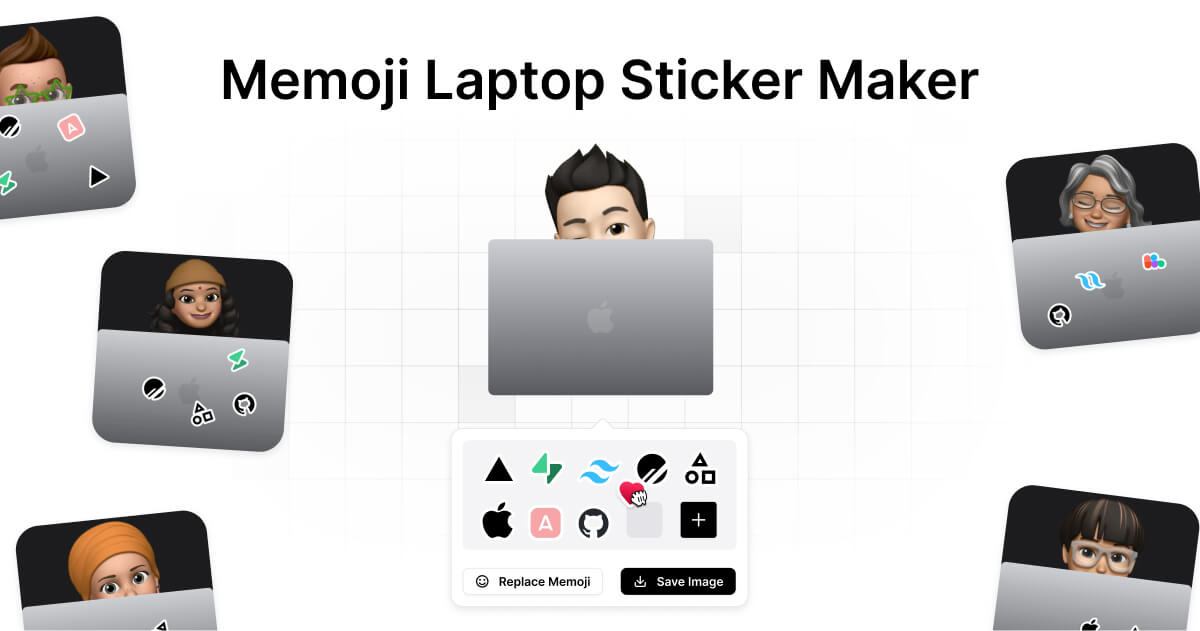
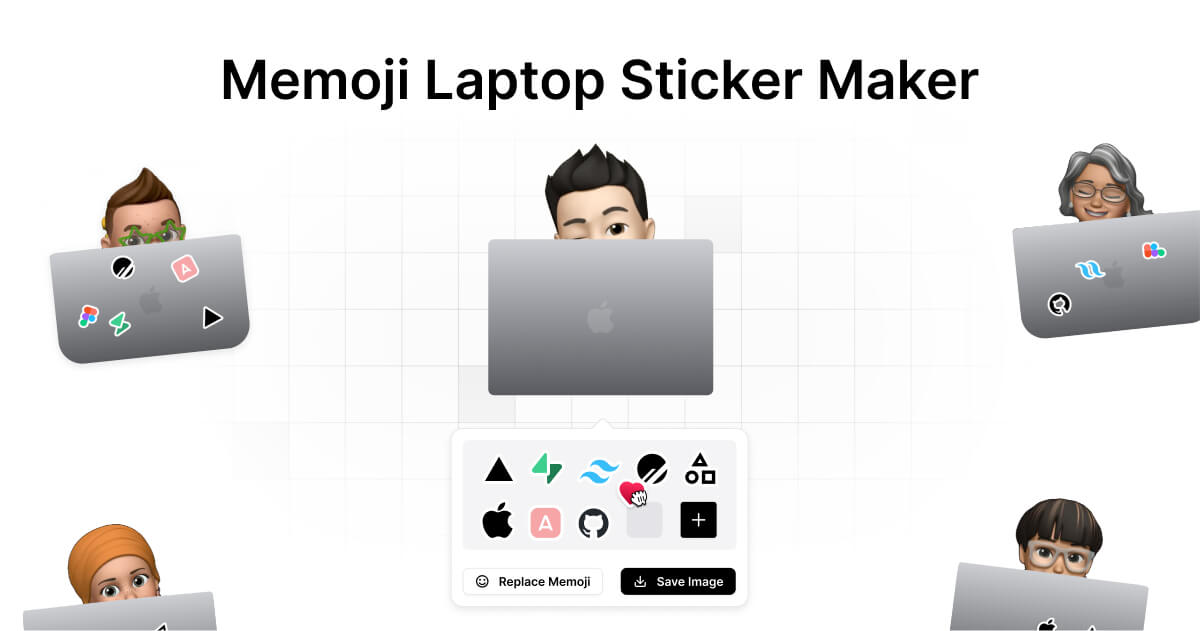
feat: newsletter

diff --git a/components/NewsletterSubscribe.tsx b/components/NewsletterSubscribe.tsx
@@ -1,0 +1,90 @@
+"use client"
+
+import { useState } from "react"
+import Dialog, { hideDialog } from "./Dialog"
+import { Mail } from "./Icons"
+import { showNotification } from "./Notification"
+
+export default function NewsletterSubscribe(props: {
+  subscribe: (email: string) => Promise<number>
+}) {
+  const [loading, setLoading] = useState(false)
+  const [email, setEmail] = useState("")
+  const [hide, setHide] = useState(false)
+
+  return (
+    <Dialog timeout={1500} hide={hide}>
+      <h2 className="font-semibold text-lg mb-4">
+        Hi, I&apos;m Flo. I&apos;ve built this tool…
+      </h2>
+      <p className="mb-4 text-zinc-500">
+        because I love stickers and I love Memoji. As you can see, this is just
+        a small side project I did in 48 hours.
+      </p>
+      <p className="mb-6 text-zinc-500">
+        As I&apos;m planning to build more products, that are not only a side
+        project and fun, but also super useful, I would love to inform you about
+        them first. Feel free to subscribe to my personal waitlist. I will never
+        spam you and only inform you about new products as soon as they come
+        out. :)
+      </p>
+      <svg
+        width="96"
+        className="mb-8"
+        height="100%"
+        viewBox="0 0 123 75"
+        fill="none"
+        xmlns="http://www.w3.org/2000/svg"
+      >
+        <path
+          fill-rule="evenodd"
+          clip-rule="evenodd"
+          d="M37.7585 5.09938L37.7554 5.11918C36.7844 11.2539 33.851 17.2225 31.2081 22.5999C30.8174 23.3947 30.4331 24.1766 30.0625 24.9442C26.5815 32.153 22.872 39.2408 19.0122 46.2406C23.0778 42.5467 27.3044 39.0513 31.5001 35.5815C32.4608 34.787 33.4199 33.9938 34.3751 33.1999C34.4805 33.1122 34.6746 32.9211 34.96 32.6355L34.9999 32.5956C35.2413 32.354 35.5355 32.0595 35.7808 31.8436C35.8945 31.7435 36.0851 31.581 36.2977 31.4599L36.2993 31.459C36.3754 31.4156 36.6562 31.2556 37.0389 31.2337C37.2636 31.2209 37.6116 31.2514 37.9583 31.4726C38.3195 31.7032 38.5094 32.0319 38.5959 32.3028C38.7338 32.7349 38.6426 33.1103 38.6197 33.2046L38.6187 33.2086C38.5814 33.3628 38.5281 33.5027 38.4831 33.6099C38.3909 33.8297 38.2582 34.0881 38.0977 34.3769C35.7624 38.5806 33.6833 43.0985 32.1156 47.6193C31.3886 49.7156 30.7448 51.8848 30.558 53.9392C30.5471 54.0592 30.5353 54.1775 30.5236 54.2952C30.4925 54.6083 30.4618 54.9171 30.4488 55.2416C30.4373 55.5315 30.446 55.7433 30.4623 55.8865C30.5413 55.9105 30.6545 55.9366 30.8077 55.9574C31.3347 56.0288 31.9485 55.9914 32.3723 55.9603C35.0116 55.7666 37.4729 54.3849 39.8945 52.6892C40.7814 51.6589 41.7351 50.6868 42.7168 49.7618C43.1972 49.0683 43.6958 48.4233 44.1589 47.8291C46.3528 45.0147 48.9531 42.4602 51.8315 40.335C53.2535 39.2851 55.052 38.037 57.1905 37.6231C57.2959 37.6027 57.5053 37.566 57.7428 37.5834C57.8577 37.5919 58.1042 37.6202 58.3732 37.7626C58.69 37.9302 59.0366 38.2632 59.1517 38.7821C59.2505 39.227 59.125 39.581 59.0565 39.7369C58.9814 39.9082 58.8907 40.0318 58.8392 40.0971C58.7346 40.2297 58.6245 40.3293 58.5672 40.3796C58.4466 40.4854 58.3078 40.5881 58.2318 40.6444L58.2245 40.6498C58.165 40.6938 58.1368 40.7153 58.1277 40.7219C57.583 41.2317 57.0377 41.7464 56.4912 42.2642C56.5568 42.3119 56.6192 42.36 56.6785 42.4076C56.8557 42.5502 57.032 42.7123 57.1636 42.8333C57.1921 42.8596 57.2185 42.8839 57.2424 42.9057C57.3986 43.0479 57.5081 43.1408 57.6115 43.2121C57.6417 43.2329 57.673 43.2545 57.7053 43.2767C58.1398 43.5756 58.7539 43.9982 59.3003 44.4936C59.8684 45.0086 60.5477 45.7615 60.8141 46.7472C61.1452 47.9724 60.8794 49.1216 60.4374 50.0459C59.9995 50.9615 59.3517 51.7418 58.7506 52.3318C56.4172 54.6224 53.325 56.3668 50.0733 57.2996C55.8764 57.6606 61.7461 57.6216 67.6327 57.5825C69.6544 57.5691 71.6782 57.5557 73.7019 57.5585C76.9782 57.5629 80.2762 57.5325 83.5863 57.502C92.2423 57.4222 100.982 57.3416 109.639 57.8818C113.097 58.0976 116.692 58.3946 120.173 58.9211C120.586 58.9836 120.942 59.0459 121.196 59.1188C121.266 59.1389 121.36 59.1685 121.46 59.2115C121.535 59.2434 121.74 59.334 121.94 59.52C122.154 59.718 122.588 60.2677 122.377 61.0401C122.217 61.6281 121.776 61.8966 121.688 61.9505L121.687 61.9507C121.449 62.0958 121.202 62.1556 121.134 62.172L121.126 62.1738C121.015 62.201 120.897 62.2232 120.798 62.2407C120.707 62.2569 120.607 62.2735 120.511 62.2892L120.477 62.2949C120.367 62.3131 120.258 62.3312 120.148 62.3508C112.286 63.7578 104.12 63.8127 96.2146 63.8658C94.109 63.8799 92.0218 63.8939 89.9636 63.9334C75.6918 64.2066 61.4232 64.6028 47.1842 65.3627C42.3689 65.6197 37.8758 66.6328 33.1075 67.7078C32.363 67.8757 31.6118 68.0451 30.8516 68.2133C30.2465 68.3472 29.6324 68.4876 29.0104 68.6298C25.3528 69.466 21.4265 70.3636 17.4967 70.3636C16.6683 70.3636 15.9967 69.692 15.9967 68.8636C15.9967 68.0351 16.6683 67.3636 17.4967 67.3636C21.0588 67.3636 24.6102 66.5544 28.2838 65.7173C28.9198 65.5724 29.5594 65.4267 30.2034 65.2842C30.9432 65.1204 31.682 64.9536 32.421 64.7868C37.1746 63.7136 41.9363 62.6386 47.0244 62.367C61.3123 61.6045 75.6193 61.2075 89.9062 60.9339C92.0497 60.8929 94.194 60.8781 96.335 60.8633C99.6259 60.8406 102.909 60.8179 106.17 60.7001C98.7141 60.3632 91.2319 60.4322 83.7178 60.5015C80.3843 60.5322 77.0444 60.563 73.6978 60.5585C71.7296 60.5558 69.7431 60.5692 67.7446 60.5826C59.781 60.6363 51.6248 60.6913 43.6574 59.736C41.8831 59.5233 40.2761 59.0887 38.6875 58.6164C38.2377 58.4827 37.742 58.1688 37.4877 57.6034C35.967 58.3108 34.3313 58.8246 32.5919 58.9523L32.5895 58.9525C32.1806 58.9825 31.2786 59.0487 30.4046 58.9302C29.9671 58.8709 29.4396 58.7539 28.9521 58.4989C28.4465 58.2345 27.9021 57.7736 27.6518 57.0228C27.4363 56.3761 27.4302 55.6499 27.4512 55.1223C27.4681 54.6994 27.5123 54.2563 27.5451 53.9268C27.5549 53.8293 27.5636 53.7418 27.5703 53.6676C27.7917 51.2328 28.5383 48.7785 29.2812 46.6364C30.2217 43.924 31.336 41.2213 32.5724 38.588C27.4966 42.7877 22.4807 46.9692 17.7683 51.5085C17.6936 51.5806 17.6189 51.6528 17.5443 51.7251C18.7401 51.7732 19.9218 51.9839 21.0025 52.3335C21.2638 52.4181 21.553 52.5328 21.8123 52.7027C22.0486 52.8576 22.4759 53.2003 22.6185 53.812C22.776 54.488 22.4841 55.0152 22.2703 55.2824C22.067 55.5365 21.8259 55.7047 21.6728 55.8016C21.357 56.0016 20.9726 56.1672 20.7117 56.2782C20.6473 56.3056 20.5881 56.3306 20.5334 56.3537C20.3146 56.4463 20.1683 56.5081 20.0579 56.5655C19.9772 56.6075 19.8959 56.6498 19.8141 56.6924C18.1681 57.5494 16.3099 58.5169 14.3564 59.0972C13.7362 59.2814 12.6573 59.5621 11.5715 59.5926C11.5254 59.5939 11.478 59.5947 11.4293 59.5951C10.4872 61.2123 9.53967 62.8258 8.58762 64.436C8.04831 65.3482 7.50865 66.2935 6.961 67.2527C5.64694 69.5545 4.2869 71.9368 2.77545 74.1353C2.30612 74.8179 1.37225 74.9909 0.689592 74.5215C0.00693369 74.0522 -0.166005 73.1183 0.303323 72.4357C1.74071 70.3449 2.99895 68.1405 4.28462 65.8879C4.84713 64.9024 5.4149 63.9076 6.00521 62.9092C6.85324 61.4749 7.69739 60.0385 8.53697 58.5998C8.3806 58.4441 8.23589 58.2649 8.1072 58.0591C7.44421 56.9983 7.38193 55.6115 7.39913 54.61C7.40849 54.0645 7.44686 53.5251 7.48245 53.0582C7.48714 52.9966 7.49174 52.9368 7.49621 52.8786C7.52725 52.475 7.55211 52.1515 7.55931 51.8833C7.71585 46.0525 9.33667 40.3946 11.0374 35.0817C13.5571 27.2104 17.2297 19.5957 21.7772 12.6998C23.8374 9.57569 26.1703 6.5013 28.8984 3.81573C30.1825 2.55162 31.9002 1.00442 34.1084 0.440649C34.825 0.257687 35.6073 0.183383 36.328 0.458167C37.1471 0.77051 37.5964 1.41554 37.7967 2.055C37.9758 2.62718 37.972 3.22739 37.9388 3.69573C37.9049 4.17453 37.8254 4.67688 37.7585 5.09938ZM10.412 55.3688C10.3992 55.1616 10.3941 54.9264 10.3987 54.6615C10.4064 54.212 10.4385 53.7495 10.4738 53.2862C10.4781 53.2291 10.4826 53.1714 10.4871 53.1133C10.5173 52.7221 10.5488 52.3134 10.5582 51.9638C10.7023 46.5955 12.1994 41.2917 13.8946 35.9963C16.329 28.3913 19.8815 21.024 24.2817 14.3514C26.2723 11.3328 28.4748 8.44243 31.003 5.95365C32.2775 4.69902 33.4947 3.69355 34.8505 3.3474C34.8878 3.33788 34.9225 3.32962 34.9548 3.32248C34.9532 3.37197 34.9504 3.4257 34.9463 3.48391C34.9227 3.8175 34.8641 4.19624 34.7923 4.6502C33.898 10.3005 31.1914 15.8184 28.5328 21.2384C28.1391 22.0409 27.7465 22.8413 27.361 23.6397C22.1485 34.4342 16.4125 44.9697 10.412 55.3688ZM13.3594 56.2628C13.4085 56.2489 13.4561 56.235 13.5022 56.2213C14.7066 55.8636 15.889 55.3235 17.0992 54.7149C16.2895 54.7085 15.4875 54.8002 14.7478 54.9979C14.7408 55.0021 14.7328 55.007 14.7239 55.0126C14.6491 55.0592 14.6183 55.08 14.5798 55.1059C14.541 55.1321 14.4945 55.1635 14.3871 55.232C14.3205 55.2745 14.2302 55.3305 14.1323 55.3825C14.0702 55.4155 13.9434 55.4811 13.779 55.533C13.6392 55.7764 13.4994 56.0196 13.3594 56.2628ZM14.793 54.972C14.793 54.9721 14.7916 54.9728 14.7891 54.9741C14.7918 54.9726 14.793 54.972 14.793 54.972ZM20.0799 53.2589C20.08 53.259 20.077 53.2611 20.0704 53.2654C20.0764 53.2609 20.0798 53.2588 20.0799 53.2589ZM35.7235 32.4322C35.7237 32.4318 35.7234 32.4326 35.7226 32.4347C35.7231 32.4333 35.7234 32.4325 35.7235 32.4322ZM44.0526 53.3545C43.8554 53.7573 43.6885 54.1648 43.5593 54.5801C43.5092 54.7411 43.486 54.8574 43.4755 54.9366C43.5489 54.9584 43.6562 54.9833 43.8074 55.0045C44.1078 55.0466 44.4824 55.0615 44.939 55.0591C49.0915 55.0376 53.6477 53.1372 56.649 50.1909C57.0964 49.7517 57.4925 49.2502 57.7309 48.7516C57.9653 48.2615 58.0083 47.864 57.918 47.5299C57.8775 47.3802 57.7137 47.1045 57.2853 46.7161C56.8933 46.3607 56.4325 46.0431 55.9699 45.7242L55.9083 45.6817C55.6298 45.4897 55.3969 45.2827 55.2219 45.1232C55.1758 45.0812 55.1347 45.0435 55.0973 45.0092C54.9745 44.8965 54.891 44.8198 54.7984 44.7454C54.6183 44.6006 54.5687 44.6008 54.5227 44.6011C54.5208 44.6011 54.5188 44.6011 54.5169 44.6011C54.3343 44.6011 54.1523 44.62 53.9692 44.6574C50.8015 47.6566 47.5486 50.6681 44.0526 53.3545ZM57.7605 40.5684C57.7733 40.566 57.7706 40.5672 57.7553 40.5695C57.757 40.5691 57.7588 40.5688 57.7605 40.5684ZM120.414 59.2596C120.412 59.2601 120.409 59.2608 120.405 59.2616C120.434 59.2529 120.441 59.2531 120.414 59.2596Z"
+          fill="black"
+        />
+      </svg>
+      <form
+        className="flex flex-col gap-4 w-full"
+        onSubmit={async (e) => {
+          setLoading(true)
+          e.preventDefault()
+          const status = await props.subscribe(email)
+
+          if (status === 200) {
+            showNotification("Thanks for subscribing!")
+            setHide(true)
+          } else {
+            showNotification("Something went wrong. Please try again.")
+          }
+        }}
+      >
+        <label className="flex flex-col gap-2">
+          <span className="font-medium">Your Email</span>
+          <div className="relative">
+            <input
+              required
+              onChange={(e) => setEmail(e.target.value)}
+              value={email}
+              type="email"
+              name="email"
+              placeholder="john.doe@domain.com"
+              className="h-10 px-4 w-full pl-12 border border-zinc-200 rounded-lg shadow-md shadow-black/5 transition-colors focus:outline-none focus:border-zinc-300"
+            />
+            <Mail size={20} className="absolute left-3 top-2.5" />
+          </div>
+        </label>
+        <button
+          type="submit"
+          className="h-10 px-4 group gap-2 font-medium flex items-center justify-center bg-black text-white shadow-md shadow-black/5 transition-colors hover:bg-zinc-800 rounded-lg"
+        >
+          {loading && (
+            <div className="w-6 h-6 border-2 border-white rounded-full animate-spin relative">
+              <div className="w-2/3 h-2/3 absolute bg-black transition-colors group-hover:bg-zinc-800 z-10 -top-1 -left-1" />
+            </div>
+          )}
+          Subscribe
+        </button>
+      </form>
+    </Dialog>
+  )
+}

diff --git a/app/[id]/page.tsx b/app/[id]/page.tsx
@@ -1,12 +1,17 @@
 import Buttons from "@/components/Buttons"
 import Confetti from "@/components/Confetti"
-import { ArrowLeft, Smiley } from "@/components/Icons"
+import { ArrowLeft, Mail, Smiley } from "@/components/Icons"
 import { app } from "@/lib/database"
 import { getStorage, ref, getDownloadURL } from "firebase/storage"
 import Image from "next/image"
 import Link from "next/link"
 import { notFound } from "next/navigation"
 import type { Metadata } from "next"
+import { useEffect } from "react"
+import Dialog, { hideDialog, showDialog } from "@/components/Dialog"
+import { showNotification } from "@/components/Notification"
+import NewsletterForm from "@/components/NewsletterSubscribe"
+import NewsletterSubscribe from "@/components/NewsletterSubscribe"
 
 type Props = {
   params: { id: string }
@@ -39,43 +44,69 @@ export default async function Page({ params, searchParams }: Props) {
   if (!stickerImage) return notFound()
 
   return (
-    <main className="w-full min-h-screen flex flex-col items-center pt-16 px-4 overflow-x-hidden pb-16">
-      <div className="absolute pointer-events-none z-50 inset-0 flex items-start justify-center">
-        {created && <Confetti />}
-      </div>
-      <h1 className="text-xl font-semibold mb-12 max-w-sm">
-        Generated Memoji Laptop Sticker Image:
-      </h1>
-      <div className="p-4 rounded-3xl shadow-xl shadow-black/5 border border-zinc-200 bg-white -rotate-3 mb-16 animate-fall-in">
-        <Image
-          src={stickerImage}
-          width={400}
-          height={400}
-          priority
-          alt="Memoji Laptop Sticker"
-          className="rounded-xl"
+    <>
+      {created && (
+        <NewsletterSubscribe
+          subscribe={async (email: string) => {
+            "use server"
+
+            const response = await fetch(
+              "https://hook.eu2.make.com/h5lq8vwghvuuhv0u3171s2hvud93byu1",
+              {
+                method: "POST",
+                headers: {
+                  "Content-Type": "application/json",
+                },
+                body: JSON.stringify({
+                  email: email,
+                }),
+              }
+            )
+
+            console.log(response.status)
+
+            return response.status
+          }}
         />
-        <div className="flex items-center justify-center pt-4">
-          <h3 className="text-xl font-semibold font-display">
-            ID: {params.id}
-          </h3>
+      )}
+      <main className="w-full min-h-screen flex flex-col items-center pt-16 px-4 overflow-x-hidden pb-16">
+        <div className="absolute pointer-events-none z-50 inset-0 flex items-start justify-center">
+          {created && <Confetti />}
         </div>
-      </div>
-      <div className="flex items-center gap-4 md:w-auto w-full md:flex-row flex-col">
-        <Buttons image={await getImage(params.id)} />
-      </div>
-      <Link
-        href="/"
-        className="mt-16 font-medium hover:underline underline-offset-2 text-lg flex items-center"
-      >
-        {created ? (
-          <ArrowLeft size={20} className="inline-block mr-2" />
-        ) : (
-          <Smiley size={20} className="inline-block mr-2" />
-        )}
-        {created ? "Generate another" : "Create your own"}
-      </Link>
-    </main>
+        <h1 className="text-xl font-semibold mb-12 max-w-sm">
+          Generated Memoji Laptop Sticker Image:
+        </h1>
+        <div className="p-4 rounded-3xl shadow-xl shadow-black/5 border border-zinc-200 bg-white -rotate-3 mb-16 animate-fall-in">
+          <Image
+            src={stickerImage}
+            width={400}
+            height={400}
+            priority
+            alt="Memoji Laptop Sticker"
+            className="rounded-xl"
+          />
+          <div className="flex items-center justify-center pt-4">
+            <h3 className="text-xl font-semibold font-display">
+              ID: {params.id}
+            </h3>
+          </div>
+        </div>
+        <div className="flex items-center gap-4 md:w-auto w-full md:flex-row flex-col">
+          <Buttons image={await getImage(params.id)} />
+        </div>
+        <Link
+          href="/"
+          className="mt-16 font-medium hover:underline underline-offset-2 text-lg flex items-center"
+        >
+          {created ? (
+            <ArrowLeft size={20} className="inline-block mr-2" />
+          ) : (
+            <Smiley size={20} className="inline-block mr-2" />
+          )}
+          {created ? "Generate another" : "Create your own"}
+        </Link>
+      </main>
+    </>
   )
 }
 

diff --git a/components/Icons.tsx b/components/Icons.tsx
@@ -158,6 +158,26 @@ export function ChevronDown(props: { size?: number; className?: string }) {
   )
 }
 
+export function Mail(props: { size?: number; className?: string }) {
+  return (
+    <svg
+      width={props.size || 24}
+      height={props.size || 24}
+      className={props.className}
+      viewBox="0 0 24 24"
+      fill="none"
+      xmlns="http://www.w3.org/2000/svg"
+    >
+      <path
+        fill-rule="evenodd"
+        clip-rule="evenodd"
+        d="M5 4C3.34315 4 2 5.34315 2 7V17C2 18.6569 3.34315 20 5 20H19C20.6569 20 22 18.6569 22 17V7C22 5.34315 20.6569 4 19 4H5ZM4 7C4 6.44772 4.44772 6 5 6H19C19.5523 6 20 6.44772 20 7V7.35007L12.406 10.7252C12.1475 10.8401 11.8523 10.8401 11.5937 10.7252L4 7.35017V7ZM4 9.53881V17C4 17.5523 4.44772 18 5 18H19C19.5523 18 20 17.5523 20 17V9.53871L13.2183 12.5528C12.4426 12.8975 11.5572 12.8975 10.7815 12.5528L4 9.53881Z"
+        fill="currentColor"
+      />
+    </svg>
+  )
+}
+
 export function ArrowLeft(props: { size?: number; className?: string }) {
   return (
     <svg

diff --git a/components/Dialog.tsx b/components/Dialog.tsx
@@ -1,10 +1,14 @@
 "use client"
 
-import React, { useState } from "react"
+import React, { useEffect, useState } from "react"
 import { createRoot } from "react-dom/client"
 
-export default function Dialog(props: { children: React.ReactNode }) {
-  const [visible, setVisible] = useState(true)
+export default function Dialog(props: {
+  timeout?: number
+  hide?: boolean
+  children: React.ReactNode
+}) {
+  const [visible, setVisible] = useState(false)
   const [animateIn, setAnimateIn] = useState(true)
 
   const hideDialog = () => {
@@ -13,6 +17,23 @@ export default function Dialog(props: { children: React.ReactNode }) {
       setVisible(false)
     }, 300)
   }
+
+  useEffect(() => {
+    if (props.timeout) {
+      setTimeout(() => {
+        setVisible(true)
+      }, props.timeout)
+    }
+  }, [props.timeout])
+
+  useEffect(() => {
+    if (props.hide) {
+      setAnimateIn(false)
+      setTimeout(() => {
+        setVisible(false)
+      }, 300)
+    }
+  }, [props.hide])
 
   return (
     visible && (

diff --git a/app/layout.tsx b/app/layout.tsx
@@ -23,8 +23,8 @@ export default function RootLayout({
           {children}
           <SideInfo />
         </div>
-        <div className="md:block hidden">
-          <Pattern className="pointer-events-none absolute inset-0 opacity-50" />
+        <div className="md:block hidden fixed inset-0 pointer-events-none">
+          <Pattern className="absolute inset-0 opacity-50" />
           <div className="border-[256px] border-white inset-0 absolute blur-3xl" />
         </div>
       </body>

diff --git a/components/StickerPlacer.tsx b/components/StickerPlacer.tsx
@@ -367,8 +367,8 @@ export default function StickerPlacer({
             src={memoji}
             priority
             alt="Memoji"
-            width={256}
-            height={256}
+            width={512}
+            height={512}
             className="absolute object-contain top-0 left-1/2 -translate-x-1/2 md:w-48 xs:w-44 w-[50vw] h-auto"
           />
         </div>

diff --git a/components/SideInfo.tsx b/components/SideInfo.tsx
@@ -11,7 +11,7 @@ export default function SideInfo() {
   }
 
   return (
-    <div className="md:absolute bottom-0 px-4 py-8 md:max-w-[200px] w-full">
+    <div className="md:absolute bottom-0 px-4 pb-4 md:max-w-[200px] w-full">
       <h2 className="font-medium cursor-pointer" onClick={toggleInformation}>
         Information{" "}
         <ChevronDown
